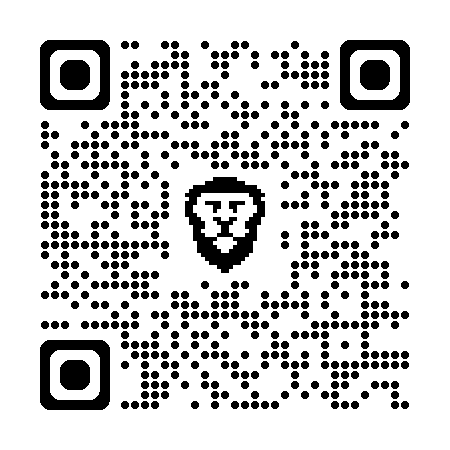
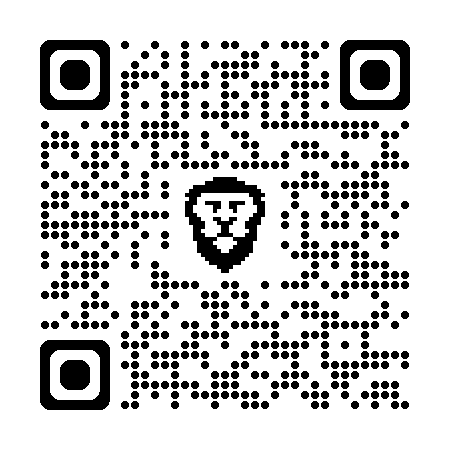
Actulizar enlaces

diff --git a/README.md b/README.md
@@ -12,7 +12,7 @@ Pondremos a prueba modelos de Machine Learning que se ejecutan directamente desd
 
 ![QR](qrcode_github.com.png)
 
-### https://github.com/curiosumcoder/ct-makerfaire2025
+### https://github.com/curiosumcoder/uct-makerfaire2026
 
 ## Taller
 
